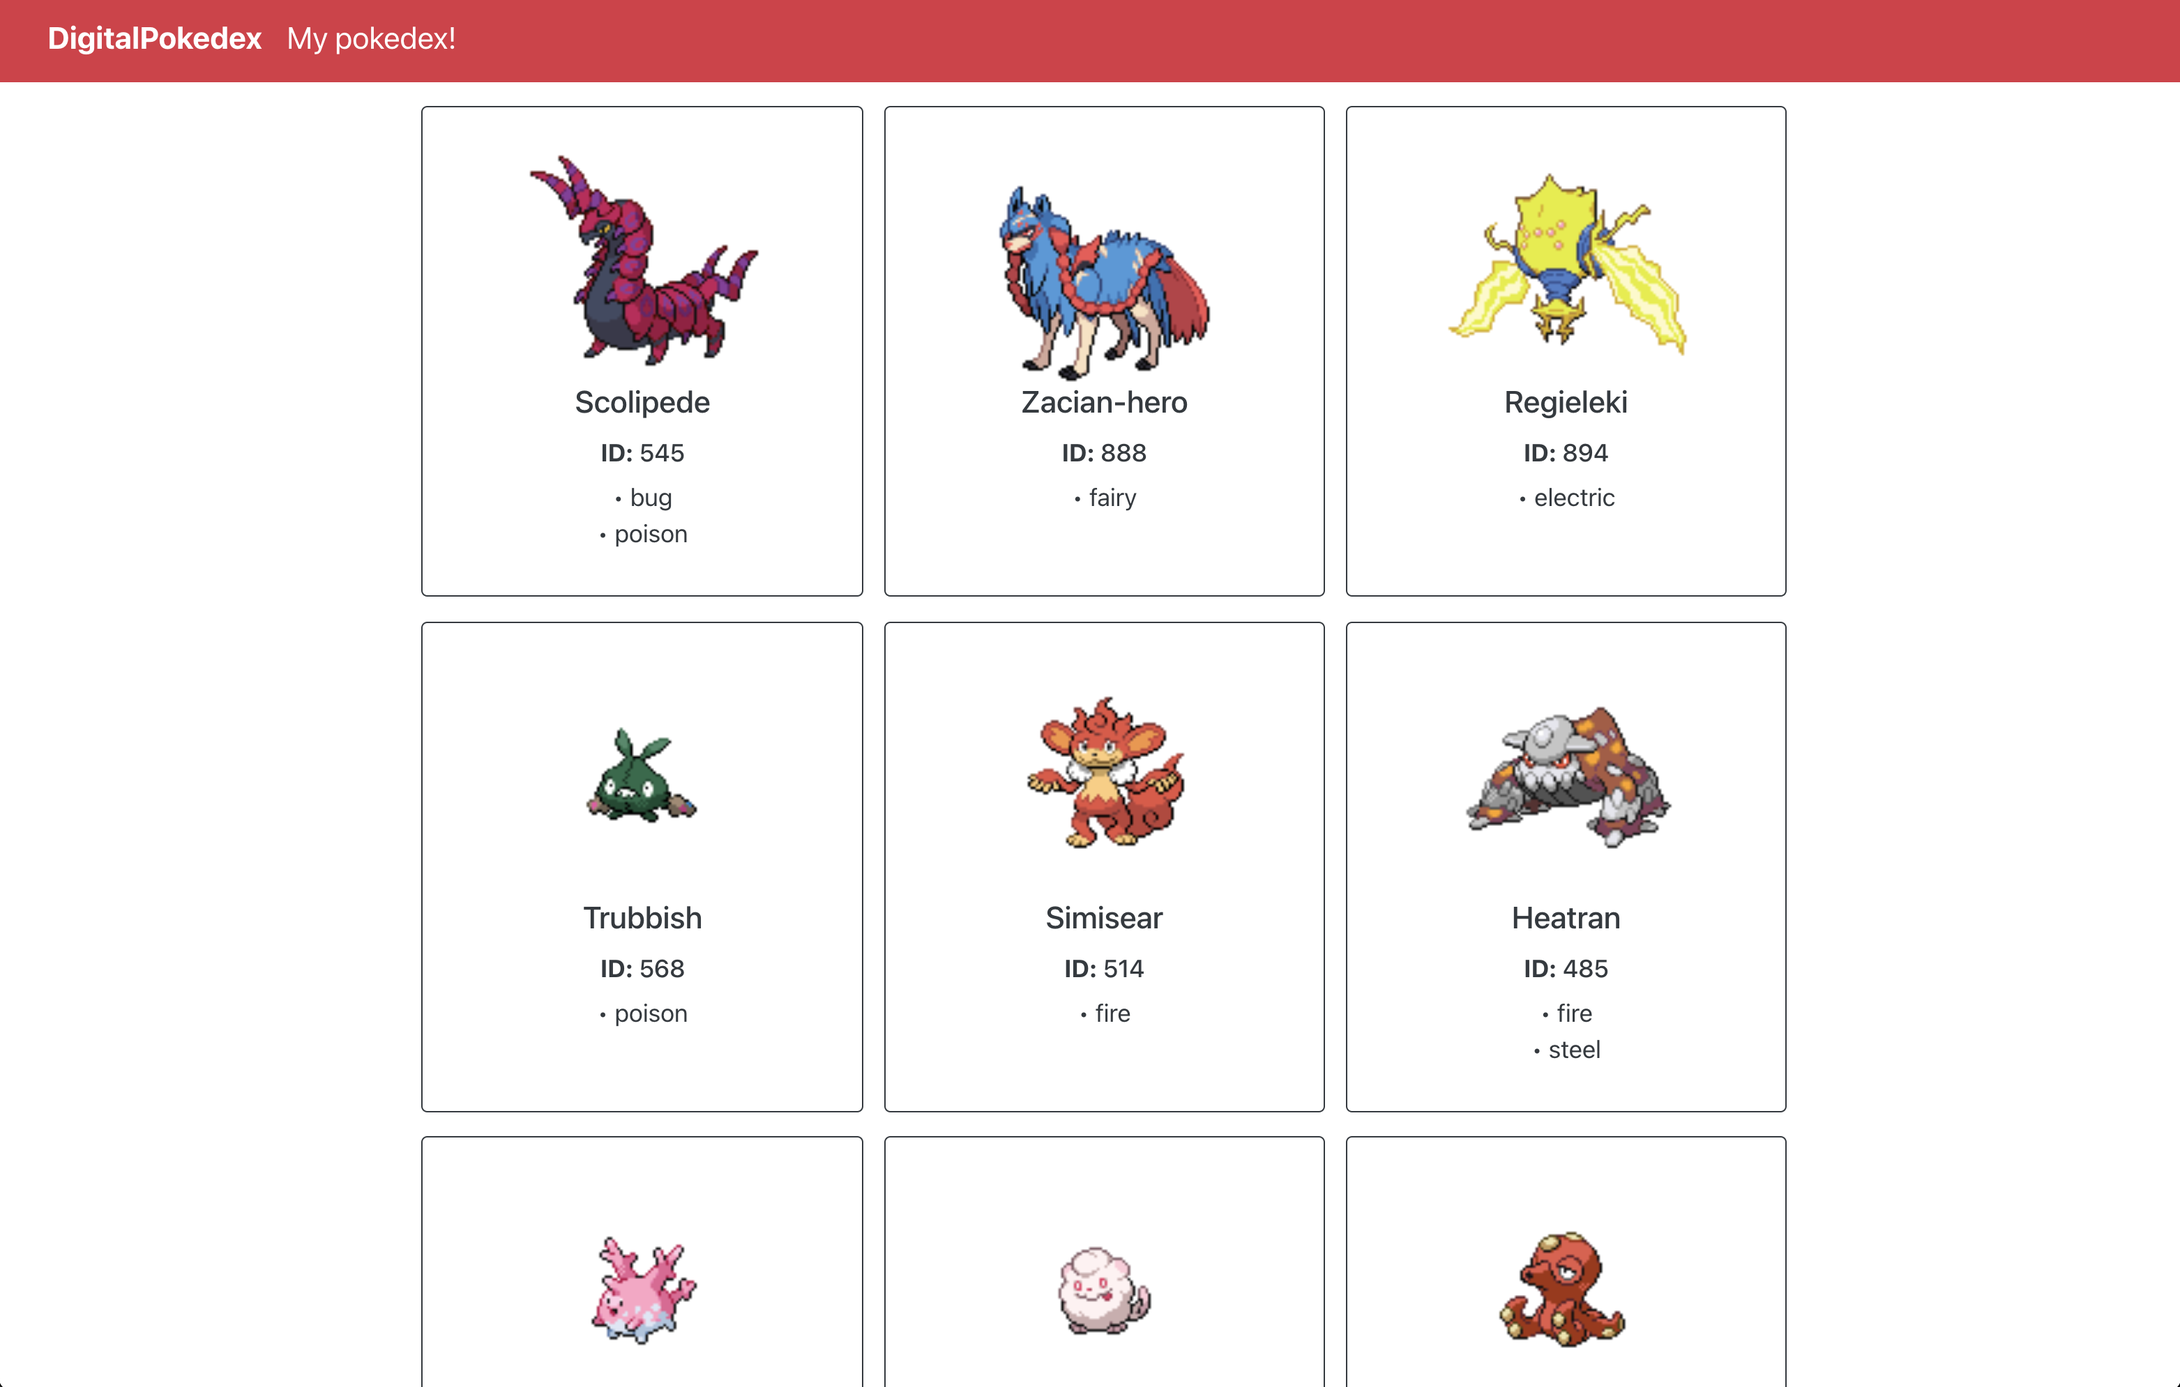
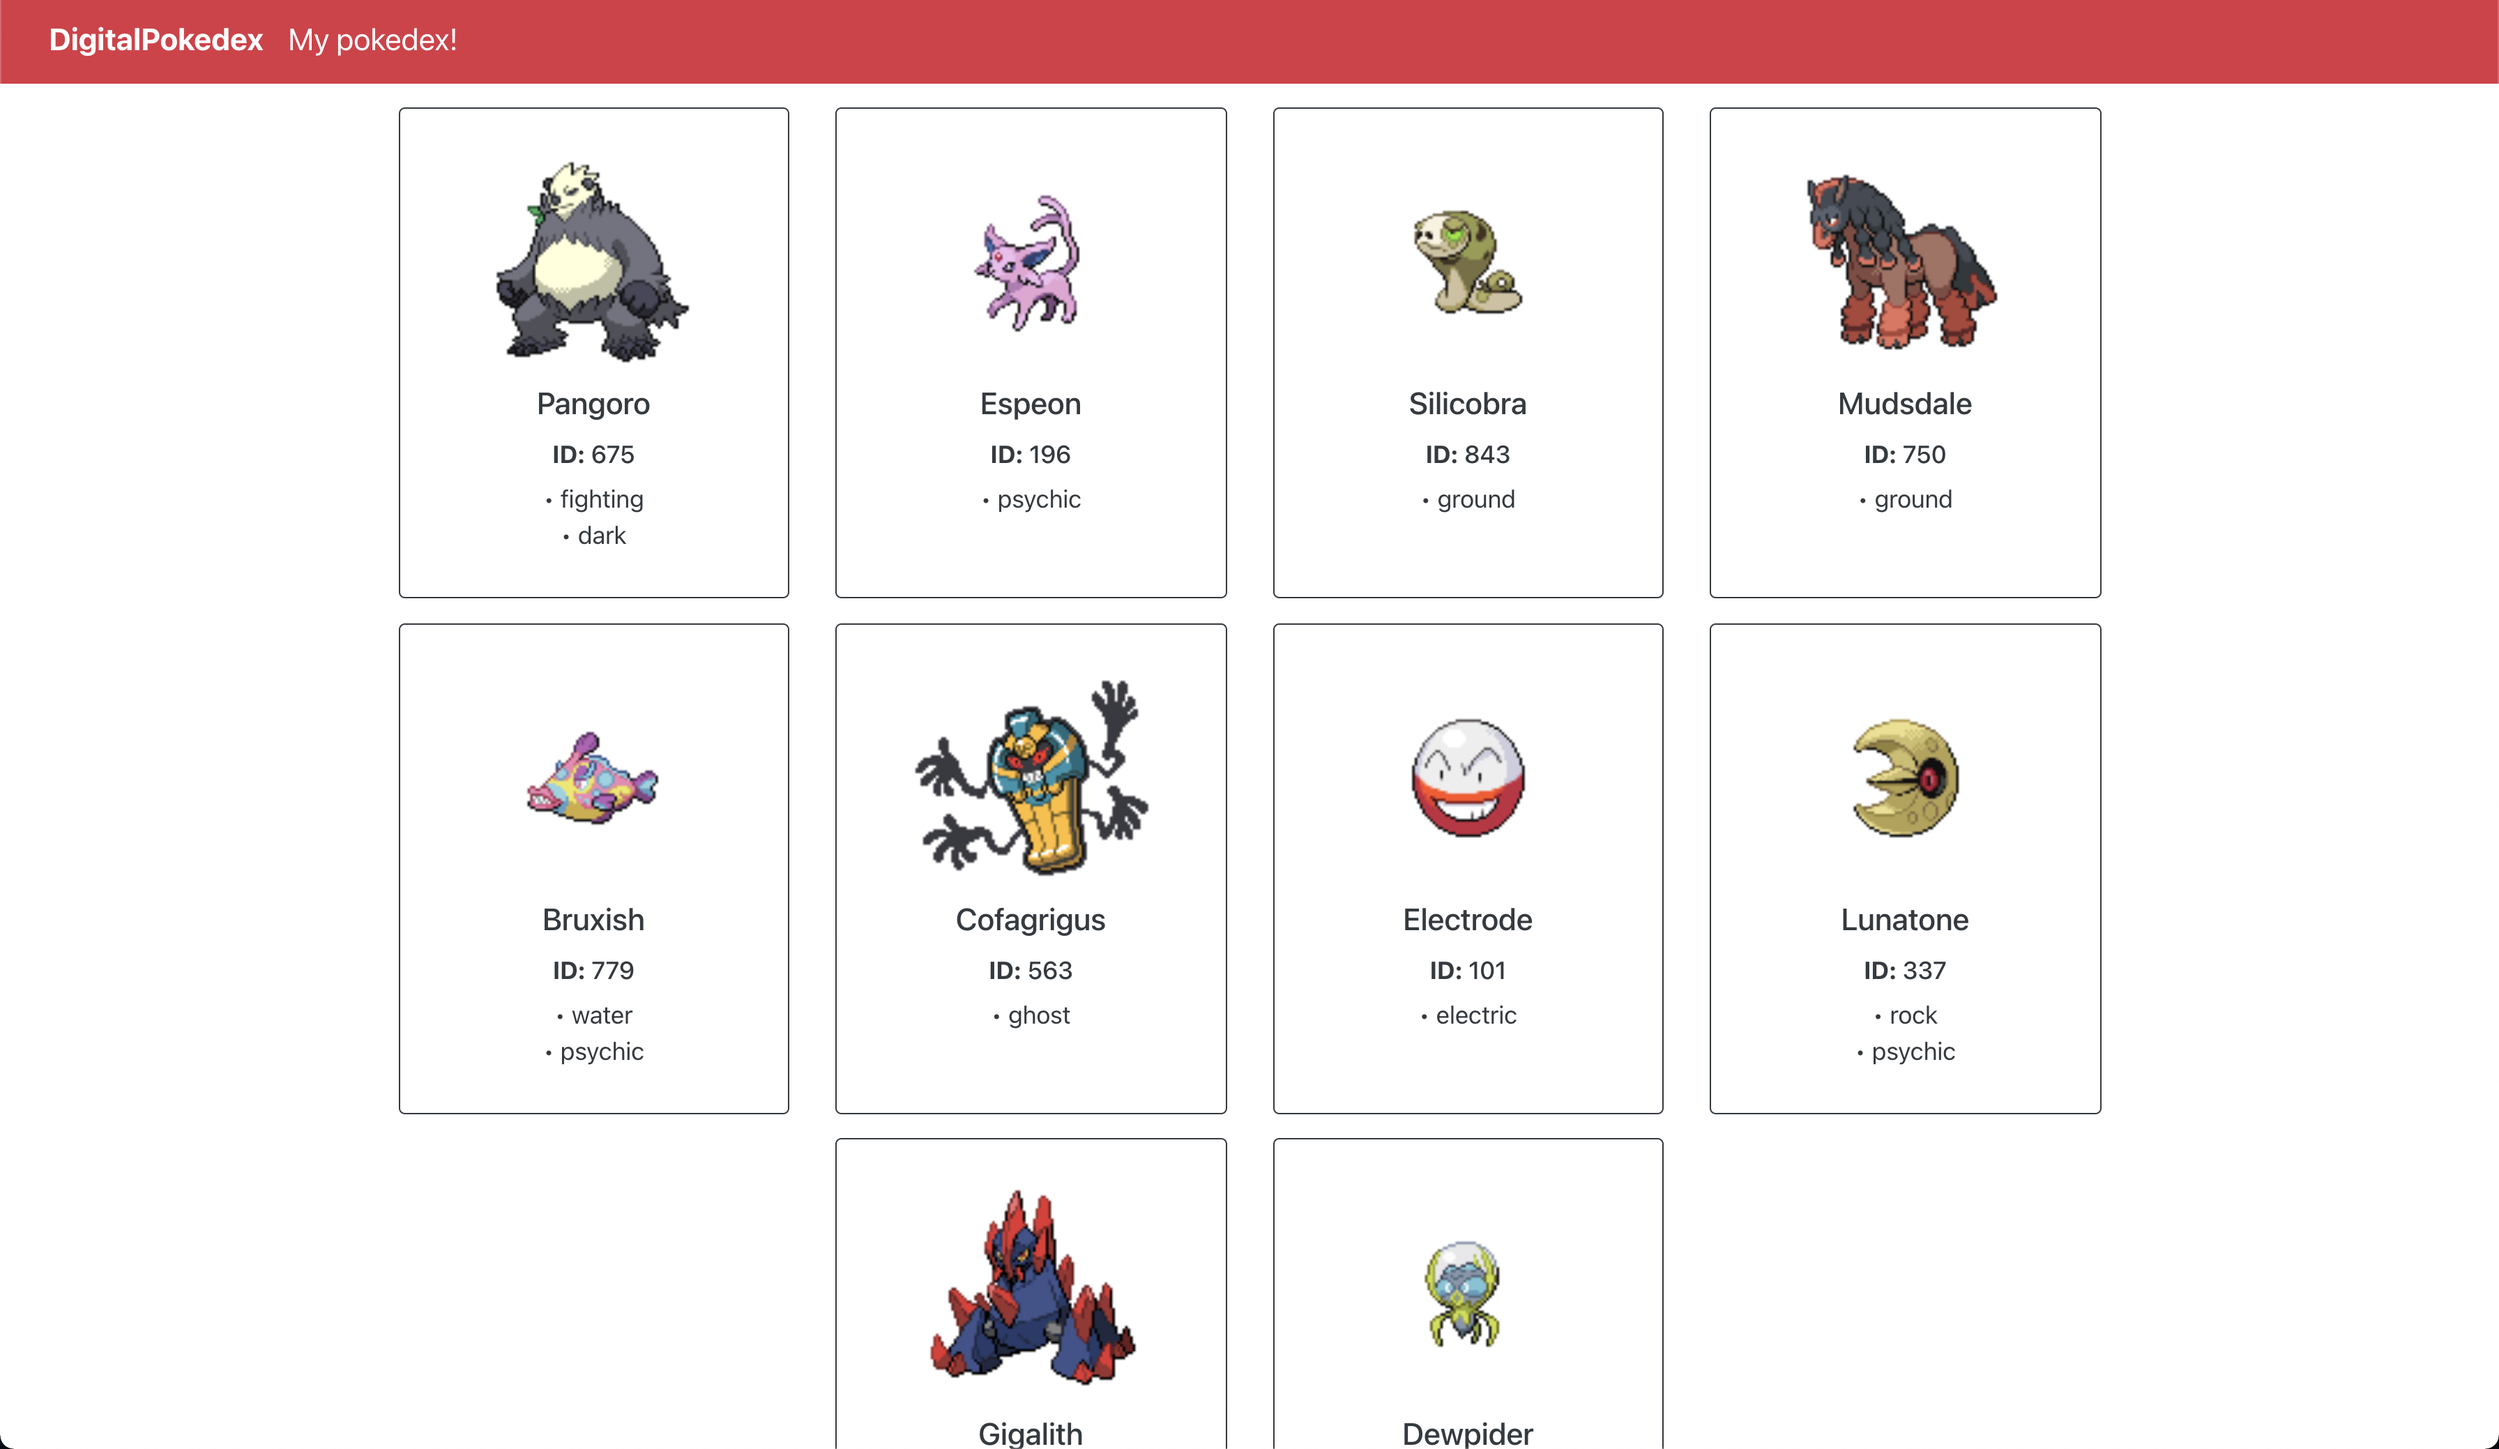
Refactoring some code, adding pictures to hightlight the app, fixing errors, fixing style

diff --git a/src/routes/showpage.js b/src/routes/showpage.js
@@ -3,6 +3,7 @@ import { useParams } from 'react-router-dom';
 import SinglePokemon from '../components/singlepokemon';
 import Loading from '../components/loading';
 import NotFound from '../components/notfound';
+import fetchSinglePokemon from '../helpers/fetchSinglePokemon';
 
 const ShowPage = ({pokedex, setPokedex}) => {
   const [error, setError] = useState(null);
@@ -10,26 +11,8 @@ const ShowPage = ({pokedex, setPokedex}) => {
   const [loading, setLoading] = useState(true);
   let { id } = useParams();
 
-  const fetchPokemon = () => {
-    fetch(`http://localhost:3001/api/v1/pokemons/${id}`)
-      .then(res => res.json())
-      .then(
-        (result) => {
-          
-          if ('error' in result){
-            setError(true);
-            setLoading(false);
-          }else {
-            setPokemon(result);
-            setLoading(false);
-          }
-        }
-      )
-    }
-    
-
   useEffect(() =>{
-    fetchPokemon();
+    fetchSinglePokemon( setError, setLoading, setPokemon, id );
   }, [])
 
   const handleOnAdd = () =>{

diff --git a/src/routes/home.js b/src/routes/home.js
@@ -1,30 +1,15 @@
 import React, { useState, useEffect } from 'react';
 import PokeContainer from '../components/pokecontainer';
 import Loading from '../components/loading';
+import fetchPokemons from '../helpers/fetchPokemons';
 
 const Home = () =>{
   const [error, setError] = useState(null);
   const [pokemons, setPokemons] = useState();
   const [loading, setLoading] = useState(true);
 
-  const fetchPokemons = () => {
-    fetch("http://localhost:3001/api/v1/pokemons")
-      .then(res => res.json())
-      .then(
-        (result) => {
-          setPokemons(result);
-          setError(false);
-          setLoading(false);
-        },
-        (error) => {
-          setLoading(true);
-          setError(error);
-        }
-      )
-  }
-
   useEffect(() =>{
-    fetchPokemons();
+    fetchPokemons( setError, setPokemons, setLoading );
   }, [])
 
   return(

diff --git a/src/components/pokecontainer.js b/src/components/pokecontainer.js
@@ -5,10 +5,10 @@ import { Container, Row, Col } from 'react-bootstrap';
 const PokeContainer = ({pokemons}) =>{
   return (
     <Container className="mt-3">
-      <Row className="justify-content-center">
+      <Row className="d-flex justify-content-center">
    
         {pokemons.map(pokemon => {
-            return <Col key={pokemon.id} className="p-0 mb-3 ml-3" xs={12} md={6} lg={3}><PokeCard key={pokemon.id} pokemon={pokemon}/></Col>
+            return <Col key={pokemon.id} className="mb-3" xs={12} md={4} lg={3}><PokeCard key={pokemon.id} pokemon={pokemon}/></Col>
           })}
       
       </Row>

diff --git a/src/components/pokecard.js b/src/components/pokecard.js
@@ -7,7 +7,7 @@ const PokeCard = ({pokemon}) =>{
   const types = pokemon.types
   return (
     <a href={`pokemon/${pokemon.id}`} className="text-decoration-none text-dark">
-      <Card border="dark" style={{ width: '18rem', height: '20rem'}} className="text-center mr-0">
+      <Card border="dark" style={{ height: '20rem'}} className="text-center">
         <Card.Body>
         <Card.Img variant="top" src={pokemon.sprites.front_default} style={{width: '10rem'}}/>
           <Card.Title>{pokemonName.charAt(0).toUpperCase() + pokemonName.slice(1) }</Card.Title>

diff --git a/src/components/singlepokemon.js b/src/components/singlepokemon.js
@@ -10,9 +10,7 @@ const SinglePokemon = ({ pokemon, handleOnAdd }) => {
           <img src={pokemon.sprites.front_default} alt={pokemon.name} style={{width: '14rem', border: '1px solid black'}}/>
           <h2 className="mt-3"> {pokemon.name.toUpperCase()} </h2>
           <h3> Type: {pokemonType.charAt(0).toUpperCase() + pokemonType.slice(1)} </h3>
-          <a href="#">
             <Button onClick={ handleOnAdd } className='mt-4' variant='outline-danger'>Add to Pokedex!</Button>
-          </a>
         </Col>
       </Row>
     </Container>

diff --git a/src/helpers/fetchSinglePokemon.js b/src/helpers/fetchSinglePokemon.js
@@ -1,0 +1,18 @@
+const fetchPokemon = (setError, setLoading, setPokemon, id) => {
+  fetch(`http://localhost:3001/api/v1/pokemons/${id}`)
+    .then(res => res.json())
+    .then(
+      (result) => {
+        
+        if ('error' in result){
+          setError(true);
+          setLoading(false);
+        }else {
+          setPokemon(result);
+          setLoading(false);
+        }
+      }
+    )
+}
+
+export default fetchPokemon;

diff --git a/src/helpers/fetchPokemons.js b/src/helpers/fetchPokemons.js
@@ -1,0 +1,17 @@
+const fetchPokemons = (setError, setPokemons, setLoading) => {
+  fetch("http://localhost:3001/api/v1/pokemons")
+    .then(res => res.json())
+    .then(
+      (result) => {
+        setPokemons(result);
+        setError(false);
+        setLoading(false);
+      },
+      (error) => {
+        setLoading(true);
+        setError(error);
+      }
+    )
+}
+
+export default fetchPokemons;

diff --git a/README.md b/README.md
@@ -2,6 +2,7 @@
 
 A simple app that helps you discover random Pokemons with the PokeAPI!
 
+
 ## Built with 
 
 This project consists on two parts.
@@ -9,10 +10,12 @@ This project consists on two parts.
 For the front end:
 - React
 - React Bootstrap
+- React Router
 
 For the backend, [you can find it here](https://github.com/franciscoaguilars/PokedexAPI) :
-- Rails 
-- RSpec 
+- Ruby on Rails 
+- [PokeAPI](https://pokeapi.co/)
+- RSpec (for testing)
 
 
 ## Prerequisites
